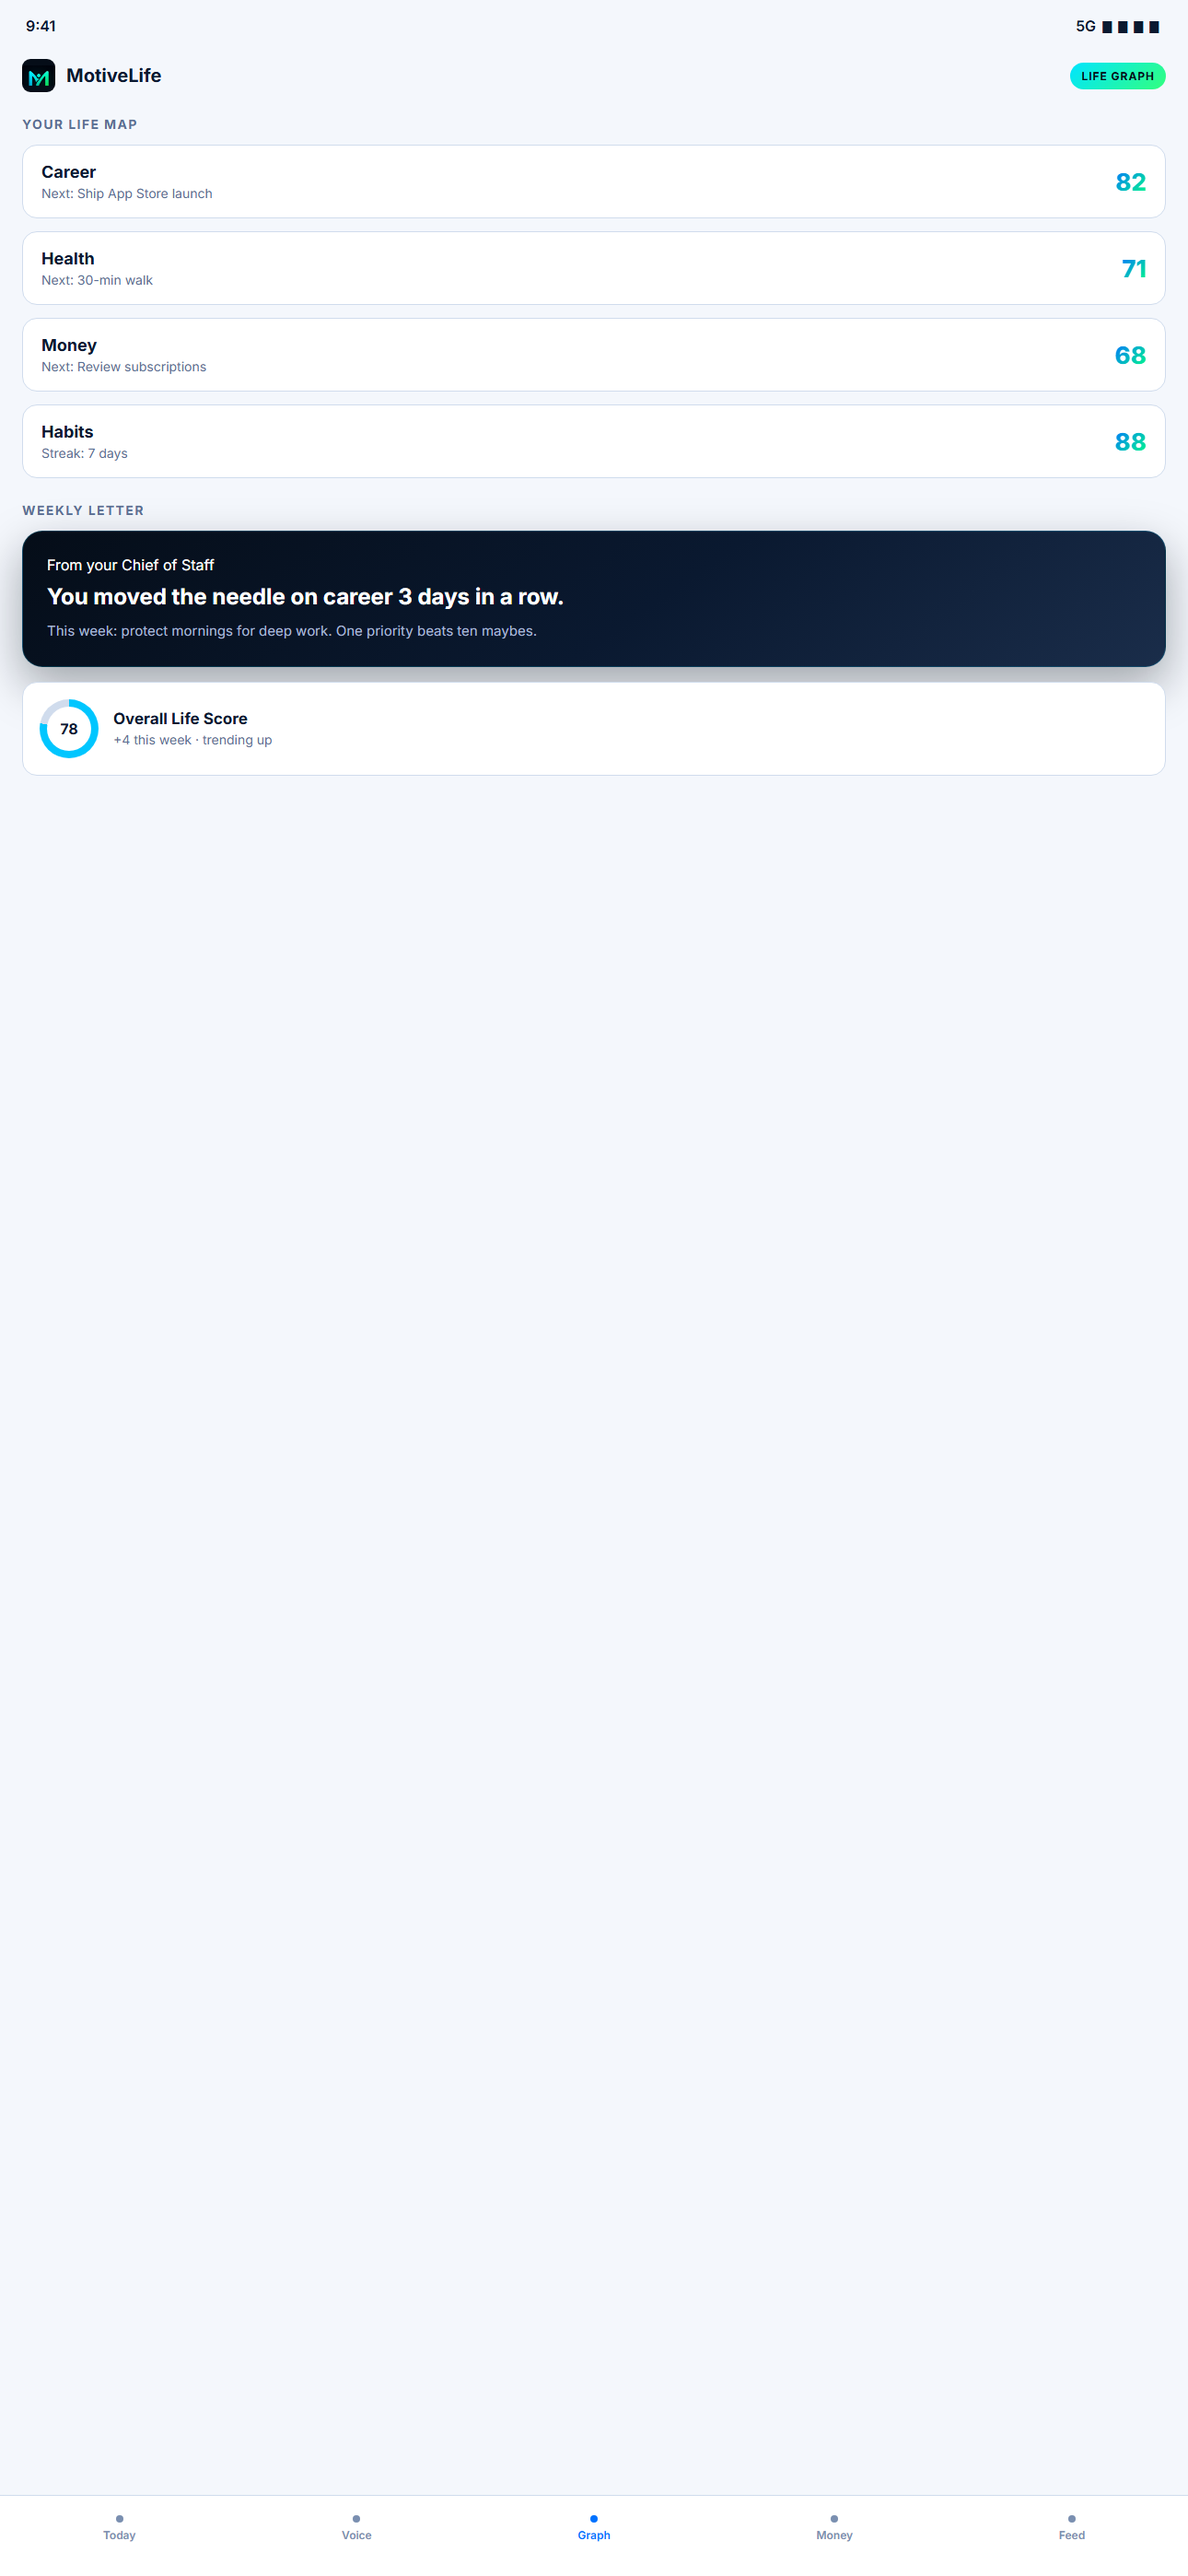
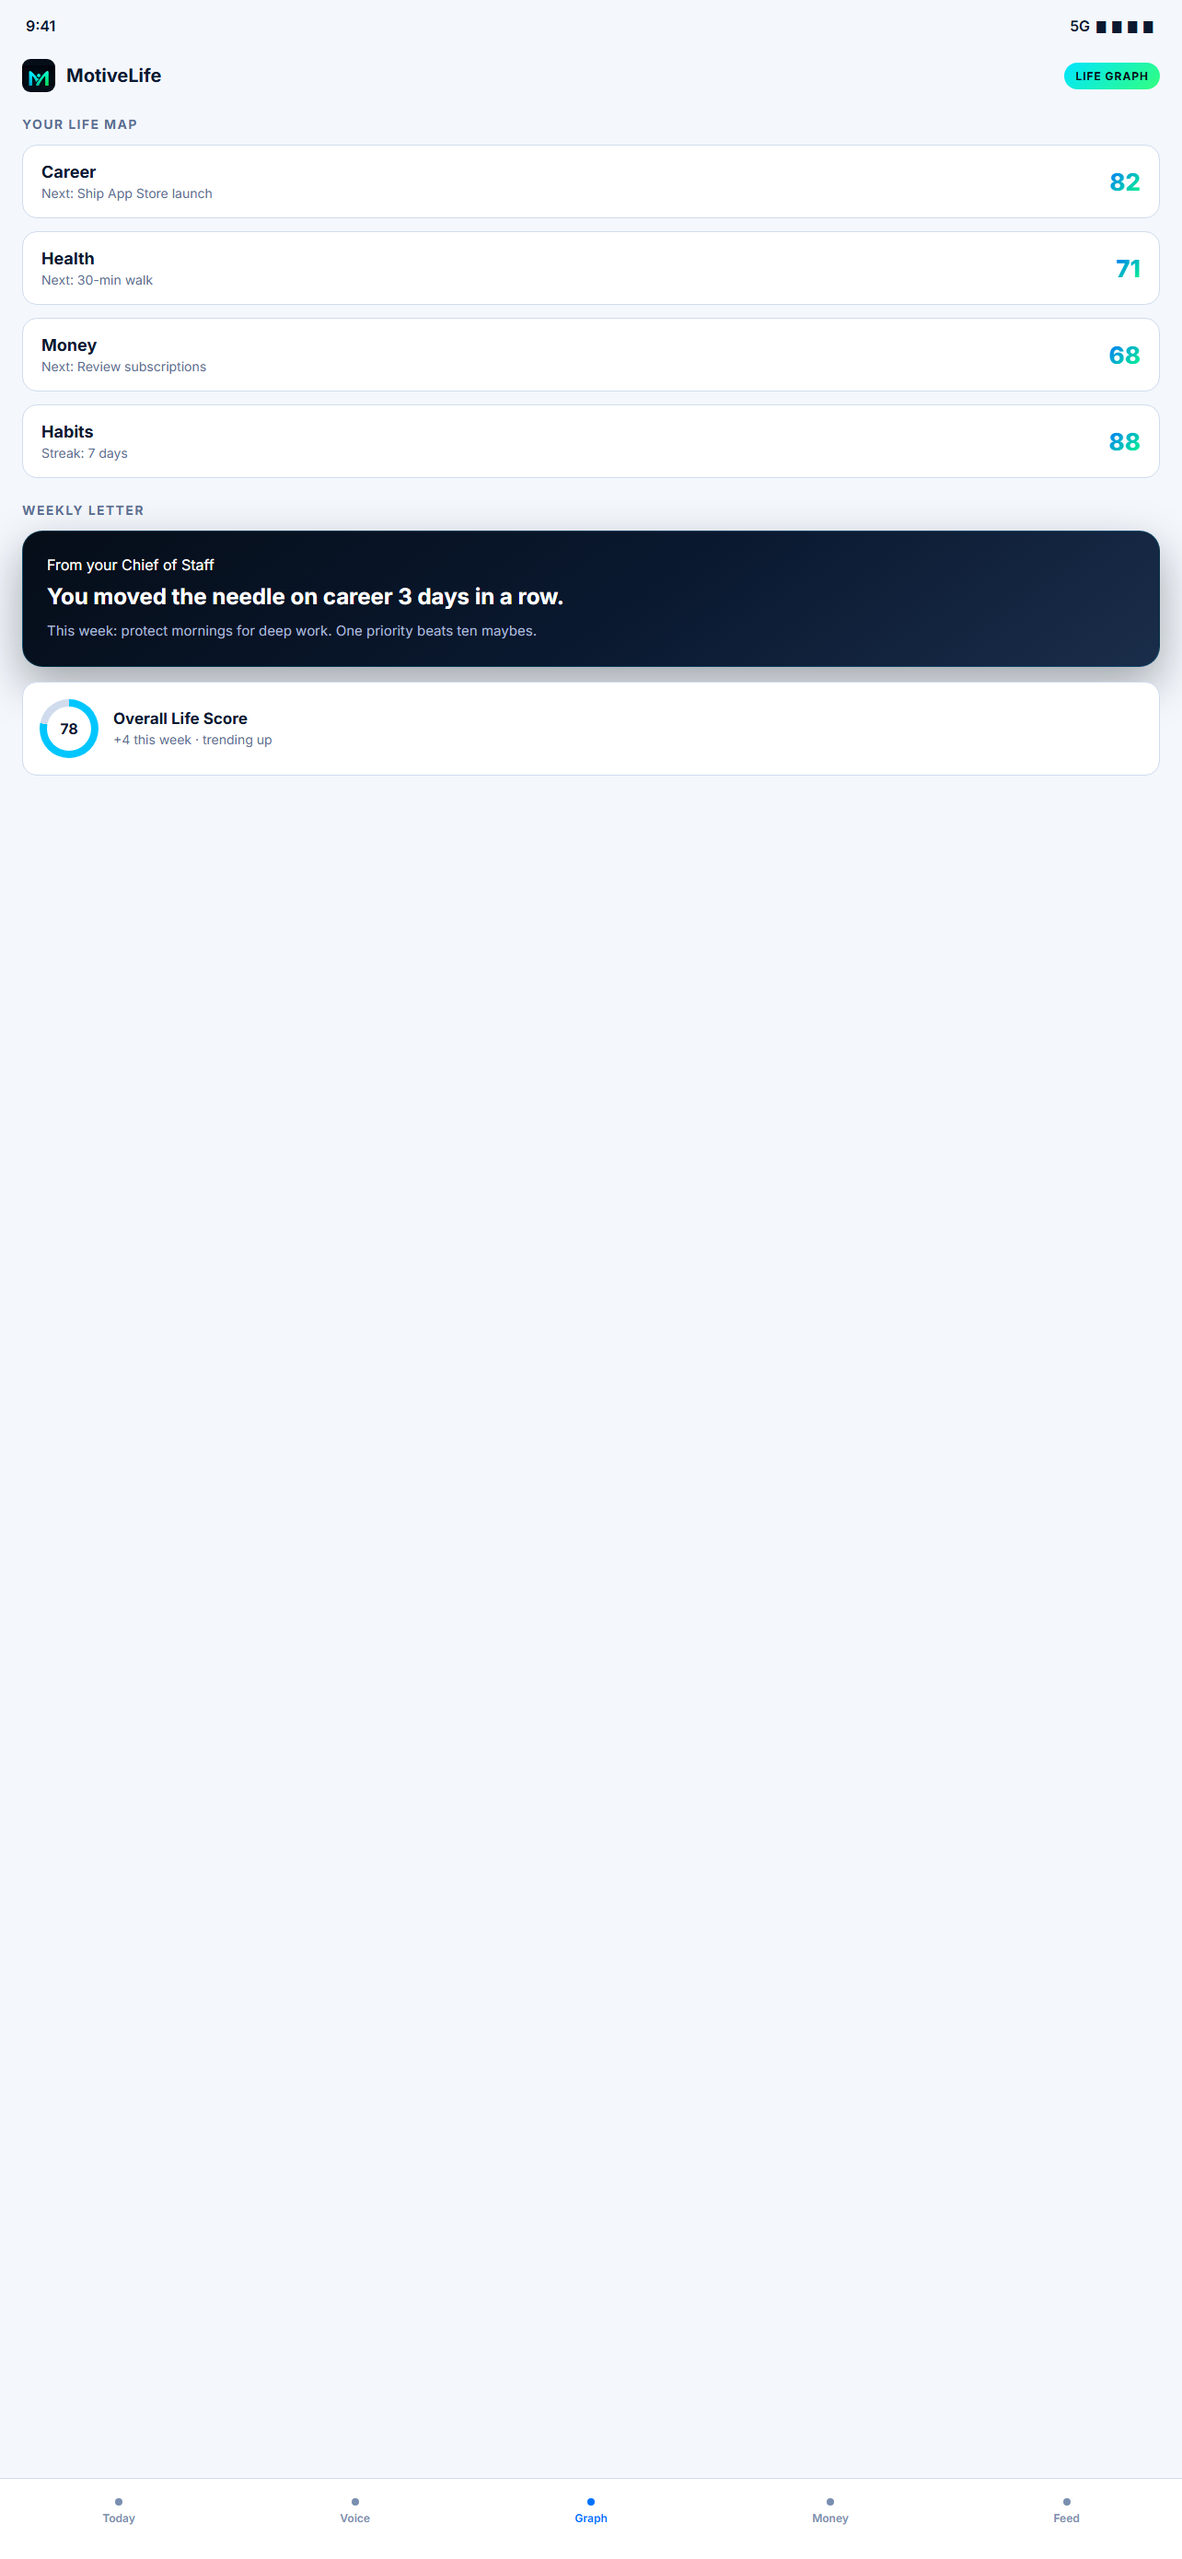
Resize App Store iPhone screenshots to 1284x2778 for Connect.
Regenerate phone and iPad PNGs at App Store Connect accepted dimensions and update docs.

diff --git a/apps/mobile/assets/app-store/screenshots.html b/apps/mobile/assets/app-store/screenshots.html
@@ -388,7 +388,7 @@
 <body>
 
   <!-- ========== IPHONE 01: Today ========== -->
-  <div id="phone-01" class="screen" style="width:1290px;height:2796px;">
+  <div id="phone-01" class="screen" style="width:1284px;height:2778px;">
     <div class="status"><span>9:41</span><span>5G ▮▮▮▮</span></div>
     <div class="nav">
       <div class="logo"><img src="/icon.png" alt="" />MotiveLife</div>
@@ -436,7 +436,7 @@
   </div>
 
   <!-- ========== IPHONE 02: Voice ========== -->
-  <div id="phone-02" class="screen" style="width:1290px;height:2796px;margin-top:40px;">
+  <div id="phone-02" class="screen" style="width:1284px;height:2778px;margin-top:40px;">
     <div class="status"><span>9:41</span><span>5G ▮▮▮▮</span></div>
     <div class="nav">
       <div class="logo"><img src="/icon.png" alt="" />MotiveLife</div>
@@ -489,7 +489,7 @@
   </div>
 
   <!-- ========== IPHONE 03: Life Graph ========== -->
-  <div id="phone-03" class="screen" style="width:1290px;height:2796px;margin-top:40px;">
+  <div id="phone-03" class="screen" style="width:1284px;height:2778px;margin-top:40px;">
     <div class="status"><span>9:41</span><span>5G ▮▮▮▮</span></div>
     <div class="nav">
       <div class="logo"><img src="/icon.png" alt="" />MotiveLife</div>
@@ -527,7 +527,7 @@
   </div>
 
   <!-- ========== IPHONE 04: Predictions ========== -->
-  <div id="phone-04" class="screen" style="width:1290px;height:2796px;margin-top:40px;">
+  <div id="phone-04" class="screen" style="width:1284px;height:2778px;margin-top:40px;">
     <div class="status"><span>9:41</span><span>5G ▮▮▮▮</span></div>
     <div class="nav">
       <div class="logo"><img src="/icon.png" alt="" />MotiveLife</div>
@@ -569,7 +569,7 @@
   </div>
 
   <!-- ========== IPHONE 05: Money ========== -->
-  <div id="phone-05" class="screen" style="width:1290px;height:2796px;margin-top:40px;">
+  <div id="phone-05" class="screen" style="width:1284px;height:2778px;margin-top:40px;">
     <div class="status"><span>9:41</span><span>5G ▮▮▮▮</span></div>
     <div class="nav">
       <div class="logo"><img src="/icon.png" alt="" />MotiveLife</div>
@@ -616,7 +616,7 @@
   </div>
 
   <!-- ========== IPHONE 06: Life Feed ========== -->
-  <div id="phone-06" class="screen" style="width:1290px;height:2796px;margin-top:40px;">
+  <div id="phone-06" class="screen" style="width:1284px;height:2778px;margin-top:40px;">
     <div class="status"><span>9:41</span><span>5G ▮▮▮▮</span></div>
     <div class="nav">
       <div class="logo"><img src="/icon.png" alt="" />MotiveLife</div>

diff --git a/apps/mobile/assets/app-store/README.md b/apps/mobile/assets/app-store/README.md
@@ -1,19 +1,27 @@
 # App Store Connect graphics
 
-Screenshots for **iPhone 6.7"** (1290×2796) and **iPad Pro 12.9"** (2048×2732). Upload in App Store Connect → your app → **App Store** → Screenshots.
+Screenshots sized for the slots App Store Connect accepts.
 
-## iPhone 6.7" (portrait)
+## iPhone (6.5" / 6.7" slot)
+
+Connect accepts: **1242×2688**, **1284×2778** (and landscape swaps).
+
+We generate **1284×2778** (portrait).
 
 | File | Size | Screen |
 |------|------|--------|
-| `iphone-01-today.png` | 1290×2796 | Today / morning briefing |
-| `iphone-02-voice.png` | 1290×2796 | Voice Organize |
-| `iphone-03-life-graph.png` | 1290×2796 | Life Graph / domains |
-| `iphone-04-predictions.png` | 1290×2796 | Life Predictions |
-| `iphone-05-money.png` | 1290×2796 | Money / cashflow |
-| `iphone-06-life-feed.png` | 1290×2796 | Life Feed |
+| `iphone-01-today.png` | 1284×2778 | Today / morning briefing |
+| `iphone-02-voice.png` | 1284×2778 | Voice Organize |
+| `iphone-03-life-graph.png` | 1284×2778 | Life Graph / domains |
+| `iphone-04-predictions.png` | 1284×2778 | Life Predictions |
+| `iphone-05-money.png` | 1284×2778 | Money / cashflow |
+| `iphone-06-life-feed.png` | 1284×2778 | Life Feed |
 
-## iPad 12.9" (portrait)
+Upload up to **10** screenshots (and up to 3 app previews) in that phone size group.
+
+## iPad 12.9"
+
+**2048×2732** (portrait).
 
 | File | Size | Screen |
 |------|------|--------|
@@ -28,11 +36,7 @@ Screenshots for **iPhone 6.7"** (1290×2796) and **iPad Pro 12.9"** (2048×2732)
 | `ipad-09-goals.png` | 2048×2732 | Goals / Life GPS |
 | `ipad-10-trust.png` | 2048×2732 | Trust / privacy + AI Life OS |
 
-## Source & regenerate
-
-- `screenshots.html` — all screen layouts (ids `phone-01`…`phone-06`, `ipad-01`…`ipad-10`)
-- `generate-screenshots.mjs` — Playwright capture at exact viewport sizes
-- App icon served from `../icon.png` as `/icon.png`
+## Regenerate
 
 ```powershell
 cd apps\mobile\assets\app-store

diff --git a/docs/APP_STORE_LAUNCH.md b/docs/APP_STORE_LAUNCH.md
@@ -161,7 +161,7 @@ Fix any red errors before continuing.
 **Age rating:** complete questionnaire (likely 4+)
 
 **Screenshots (ready to upload):** `apps/mobile/assets/app-store/`
-- **6 iPhone** (1290×2796, 6.7"): `iphone-01-today.png` … `iphone-06-life-feed.png`
+- **6 iPhone** (1284×2778 — App Store Connect accepted size): `iphone-01-today.png` … `iphone-06-life-feed.png`
 - **10 iPad** (2048×2732, 12.9"): `ipad-01-today.png` … `ipad-10-trust.png`
 
 See `apps/mobile/assets/app-store/README.md` to regenerate.
